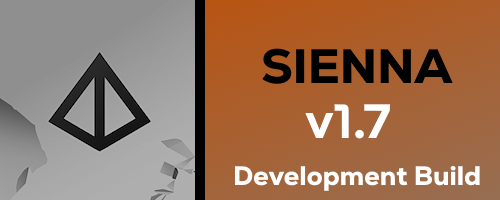
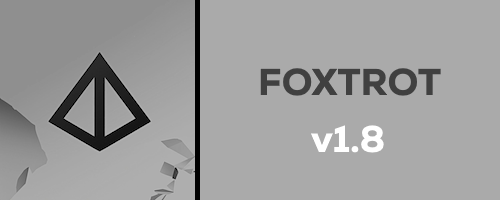
1.8 Foxtreot

diff --git a/Lumina/src/luminapanel.scss b/Lumina/src/luminapanel.scss
@@ -1,16 +1,18 @@
 .Panel {
    position: absolute;
    width: 950rem;
-   height: 900rem;
+   height: 500rem;
    top: 500rem;
    left: 200rem;
-   background-color: rgba(71, 55, 55, 0.3);
-   box-shadow: inset 0 0 20px rgba(16, 16, 16, 0.6); /* Add a blurred black inner shadow */
+   background-color: rgb(0, 0, 0, 0.1); /* Semi-transparent background */
+   backdrop-filter: blur(10px); /* Apply blur to the background behind the panel */
+   box-shadow: inset 0 0 20px rgba(0, 0, 0, 0.6); /* Blurred black inner shadow */
    overflow-y: scroll;
-   max-height: 400rem; 
+   max-height: 400rem;
    pointer-events: auto;
    cursor: pointer;
- }
+}
+
  
 
 
@@ -59,7 +61,7 @@
     height: 45rem;
     left: 900rem; /* Adjusted left position */
     transition: transform 0.01s ease-in-out;
-    filter: invert(100%); /* Invert the colors to turn black to white */
+   
 }
 
 .ColorAdjustmentsButtonDeselected {
@@ -71,7 +73,6 @@
     height: 45rem;
     left: 900rem; /* Adjusted left position */
     transition: transform 0.01s ease-in-out;
-    filter: invert(100%); /* Invert the colors to turn black to white */
 }
 
 .SettingsButton {
@@ -83,7 +84,8 @@
     left: 0rem;
     transition: transform 0.01s ease-in-out;
     border-radius: 50%; /* Make it round */
-    filter: invert(100%); /* Invert the colors to turn black to white */
+    filter:invert(100%);
+ 
 }
 
 .SettingsButtonDeselected {
@@ -95,7 +97,7 @@
     left: 0rem;
     transition: transform 2s ease-in-out;
     border-radius: 50%; /* Make it round */
-    filter: invert(100%); /* Invert the colors to turn black to white */
+    filter:invert(100%);
 }
 
 .PlanetaryButton {
@@ -107,7 +109,6 @@
     left: 850rem; /* Adjusted left position */
     transition: transform 0.01s ease-in-out;
     border-radius: 50%; /* Make it round */
-    filter: invert(100%); /* Invert the colors to turn black to white */
 }
 
 .PlanetaryButtonDeselected {
@@ -119,7 +120,6 @@
     left: 850rem; /* Adjusted left position */
     transition: transform 2s ease-in-out;
     border-radius: 50%; /* Make it round */
-    filter: invert(100%); /* Invert the colors to turn black to white */
 }
 
 .PlanetaryButton:hover {
@@ -138,7 +138,6 @@
    left: 800rem; 
    transition: transform 0.01s ease-in-out;
    border-radius: 50%; /* Make it round */
-   filter: invert(100%); /* Invert the colors to turn black to white */
 }
 
 .TonemappingButtonDeselected {
@@ -150,7 +149,6 @@
    left: 800rem; /* Adjusted left position */
    transition: transform 2s ease-in-out;
    border-radius: 50%; /* Make it round */
-   filter: invert(100%); /* Invert the colors to turn black to white */
 }
 
 .TonemappingButton:hover {
@@ -167,7 +165,6 @@
    left: 750rem; 
    transition: transform 0.01s ease-in-out;
    border-radius: 50%; /* Make it round */
-   filter: invert(100%); /* Invert the colors to turn black to white */
 }
 
 .SkyAndFogButtonDeselected {
@@ -179,7 +176,6 @@
    left: 750rem; 
    transition: transform 2s ease-in-out;
    border-radius: 50%; /* Make it round */
-   filter: invert(100%); /* Invert the colors to turn black to white */
 }
 
 .SkyAndFogButton:hover {
@@ -978,7 +974,7 @@ $hueshift-top: 80rem;
  // Latitude
 .LatitudeLabel {
    position: absolute;
-   color: rgb(118, 118, 118);
+   color: rgb(255, 255, 255);
    font-size: 20rem;
    left: 0rem;
    width: 150rem;
@@ -993,7 +989,6 @@ $hueshift-top: 80rem;
    left: 250rem;
    top: $global-height + $distance + 0rem;
    width: 680rem;
-   background-color: rgba(0, 0, 0, 0.5);
 }
 
 .LatitudeInput {
@@ -1009,7 +1004,7 @@ $hueshift-top: 80rem;
 //Longitude
 .LongitudeLabel {
    position: absolute;
-   color: rgb(118, 118, 118);
+   color: rgb(255, 255, 255);
    font-size: 20rem;
    left: 0rem;
    width: 150rem;
@@ -1024,7 +1019,6 @@ $hueshift-top: 80rem;
    left: 250rem;
    top: $global-height + $distance + 40rem;
    width: 680rem;
-   background-color: rgba(0, 0, 0, 0.5);
 }
 
 .LongitudeInput {

diff --git a/Lumina/src/mods/Components/LuminaCheckbox.scss b/Lumina/src/mods/Components/LuminaCheckbox.scss
@@ -1,0 +1,50 @@
+.lumina-volume-container {
+    pointer-events: auto; /* Allows interaction with the container */
+    position: absolute;
+    height: 20rem;
+    width: 20rem;
+    top: 300rem;
+    right:200rem;
+    z-index: 1000;
+}
+
+.TextUseLumina {
+    pointer-events: auto; /* Allows interaction with the container */
+    text-transform: uppercase; /* Transforms text to uppercase */
+    color: white;
+    position: absolute;
+    top: 300rem;
+    right:200rem;
+}
+
+.checkbox-container {
+    position: absolute;
+ 
+  }
+ 
+  .checkbox-image {
+    position: absolute;
+    background-image: url('https://raw.githubusercontent.com/NyokoDev/LuminaCS2/refs/heads/master/HTTP/Checkmark.svg');
+    background-size: cover; /* Make sure the background image covers the entire area */
+    filter: invert(100%);
+  }
+
+.lumina-volume-image {
+    pointer-events: auto; /* Allows interaction with the container */
+    position: absolute;
+    top: 0rem; /* -35rem + 20rem */
+    height: inherit;
+    width: inherit;
+    right:inherit;
+    z-index: 3000;
+}
+
+.lumina-volume-toggle {
+    pointer-events: auto; /* Allows interaction with the container */
+    position: absolute;
+    top: 0rem; /* -35rem + 20rem */
+    height: 20rem;
+    width: 20rem;
+right:inherit;
+    z-index: 2500;
+}

diff --git a/Lumina/src/mods/Components/UseLuminaVolumeCheckbox.tsx b/Lumina/src/mods/Components/UseLuminaVolumeCheckbox.tsx
@@ -1,5 +1,4 @@
-import './Checkboxes.scss';
-import './CheckboxesStyle.scss'
+import './LuminaCheckbox.scss'
 import mod from "mod.json";
 import { bindValue, trigger, useValue } from 'cs2/api';
 
@@ -16,16 +15,14 @@ export const LuminaVolumeCheckbox = () => {
     <div className="checkbox-container lumina-volume-container"
     onClick={toggle}
     >
-      <label> Use Lumina</label>
+
       {isActive && (
         <div 
           className="checkbox-image lumina-volume-image" 
-          onClick={toggle}
         ></div>
       )}
       <button
         className="toggle_cca item-mouse-states_Fmi toggle_th_ lumina-volume-toggle"
-        onClick={toggle}
       ></button>
     </div>
   );

diff --git a/Lumina/src/mods/panel.tsx b/Lumina/src/mods/panel.tsx
@@ -453,6 +453,7 @@ return (
 
 <div className="TabsRow">
 
+
     <Tooltip
   tooltip={translate("LUMINA.colortooltip")} // Specify the content of the tooltip
   disabled={false} // Specify whether the tooltip is disabled (default: false)
@@ -569,7 +570,7 @@ return (
 
   <div  className="Panel">
     
-  <LuminaVolumeCheckbox />
+
 
 
 
@@ -913,7 +914,8 @@ return (
 
 {SettingsEnabled$ && (
     <div className="SettingsPanel">
-
+      <label className="TextUseLumina">enable Lumina Volume</label>
+  <LuminaVolumeCheckbox />
     <button 
   
     onClick={SaveSettings}

diff --git a/Systems/RenderEffectsSystem.cs b/Systems/RenderEffectsSystem.cs
@@ -501,16 +501,7 @@
         private void ColorAdjustments()
         {
             // Use reflection to get the private ColorAdjustments field from LightingSystem
-            Type lightingSystemType = typeof(LightingSystem);
-            FieldInfo colorAdjustmentsField = lightingSystemType.GetField("m_ColorAdjustments", BindingFlags.NonPublic | BindingFlags.Instance);
-
-            if (colorAdjustmentsField != null)
-            {
-                LightingSystem lightingSystem = World.GetExistingSystemManaged<LightingSystem>();
-                colorAdjustments = (UnityEngine.Rendering.HighDefinition.ColorAdjustments)colorAdjustmentsField.GetValue(lightingSystem);
-
-                if (colorAdjustments != null)
-                {
+            colorAdjustments = m_ColorAdjustments; 
                     // Set the exposure value to 0 using Override method
                     colorAdjustments.postExposure.Override(GlobalVariables.Instance.PostExposure);
                     colorAdjustments.postExposure.overrideState = GlobalVariables.Instance.PostExposureActive;
@@ -524,9 +515,9 @@
 
                     colorAdjustments.saturation.Override(GlobalVariables.Instance.Saturation);
                     colorAdjustments.saturation.overrideState = GlobalVariables.Instance.SaturationActive;
-                }
+                
             }
-        }
+        
 
         private void GetPrivateFieldm_PhysicallyBasedSky()
         {

diff --git a/Systems/UISystem.cs b/Systems/UISystem.cs
@@ -173,7 +173,7 @@
 
         private bool CheckIfLumina()
         {
-            return GlobalVariables.Instance.LuminaVolumeEnabled;
+            return RenderEffectsSystem.LuminaVolume.enabled;
         }
         private void RestartLuminaVolume()
         {

diff --git a/XML/GlobalPaths.cs b/XML/GlobalPaths.cs
@@ -67,6 +67,6 @@ namespace Lumina.XML
         /// <summary>
         /// Returns the version.
         /// </summary>
-        public static string Version = "1.7";
+        public static string Version = "1.8";
     }
 }
